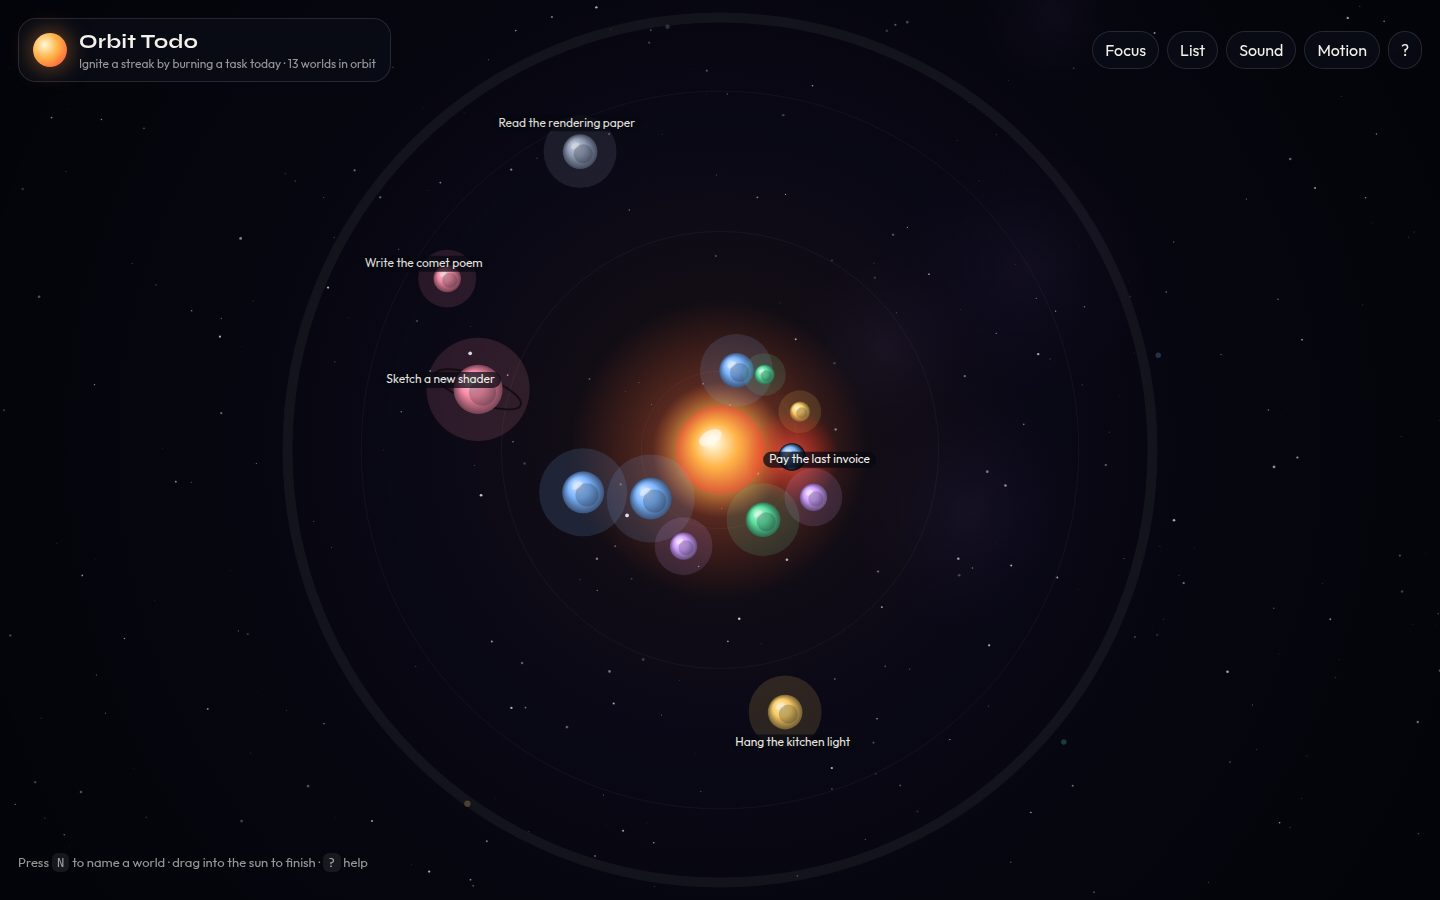
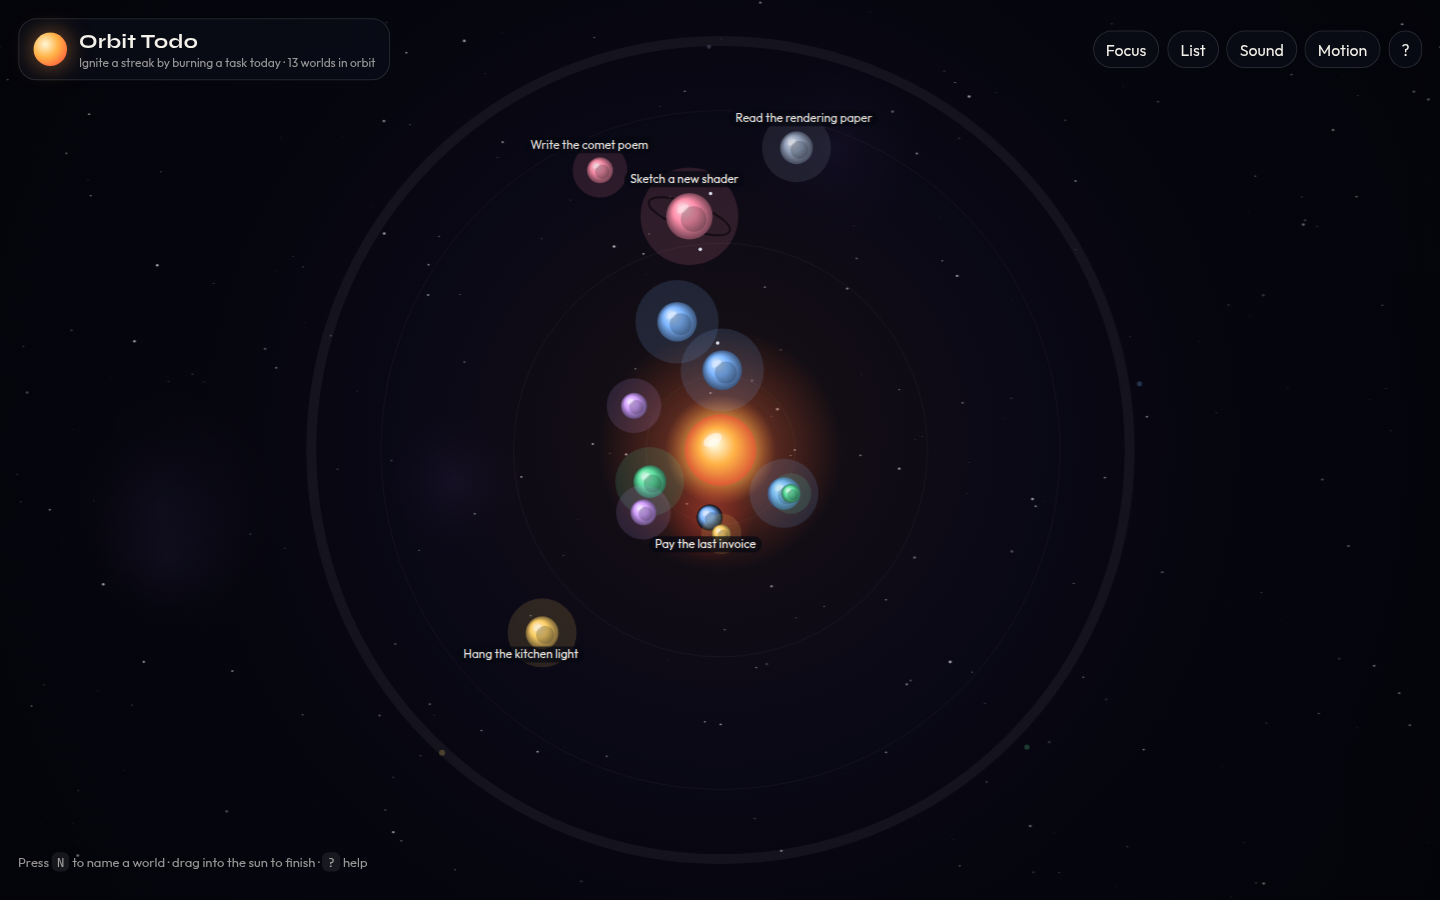
Keep inspector actions visible while scrolling
Sticky complete/delete buttons so the sun offering control is not clipped
under the dossier panel.

diff --git a/src/styles.css b/src/styles.css
@@ -211,6 +211,8 @@ textarea {
   width: min(360px, calc(100% - 36px));
   max-height: calc(100% - 150px);
   overflow: auto;
+  display: flex;
+  flex-direction: column;
 }
 
 .list-view {
@@ -315,6 +317,20 @@ textarea {
 .task-meta {
   color: var(--muted);
   font-size: 12px;
+}
+
+.panel-actions {
+  position: sticky;
+  bottom: 0;
+  margin-top: 8px;
+  padding-top: 12px;
+  padding-bottom: 4px;
+  background: linear-gradient(180deg, rgba(10, 12, 24, 0), rgba(10, 12, 24, 0.96) 32%);
+}
+
+.panel-actions .primary,
+.panel-actions .danger {
+  flex: 1 1 140px;
 }
 
 .primary {
